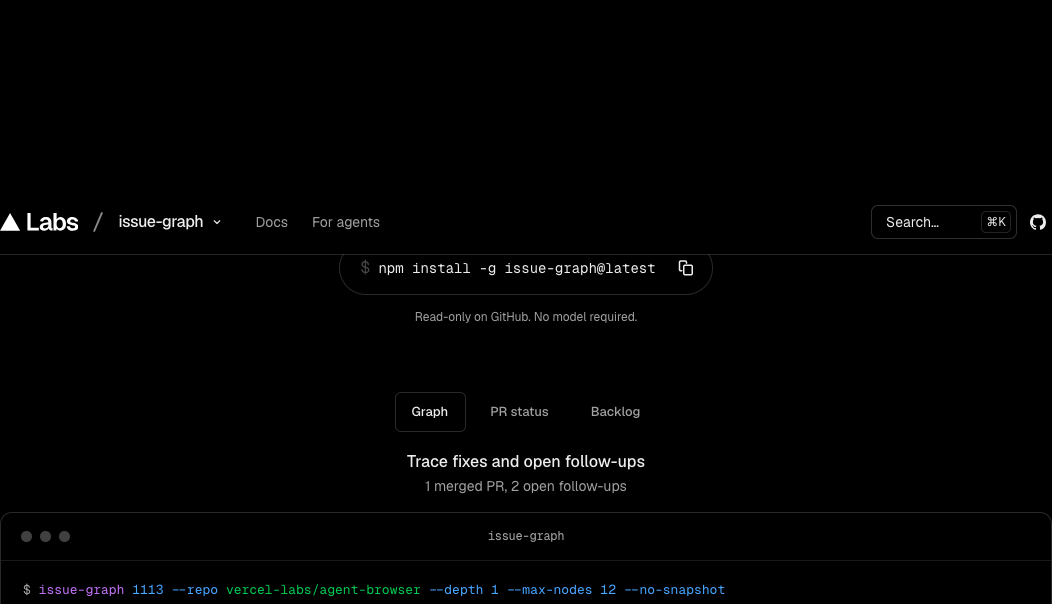
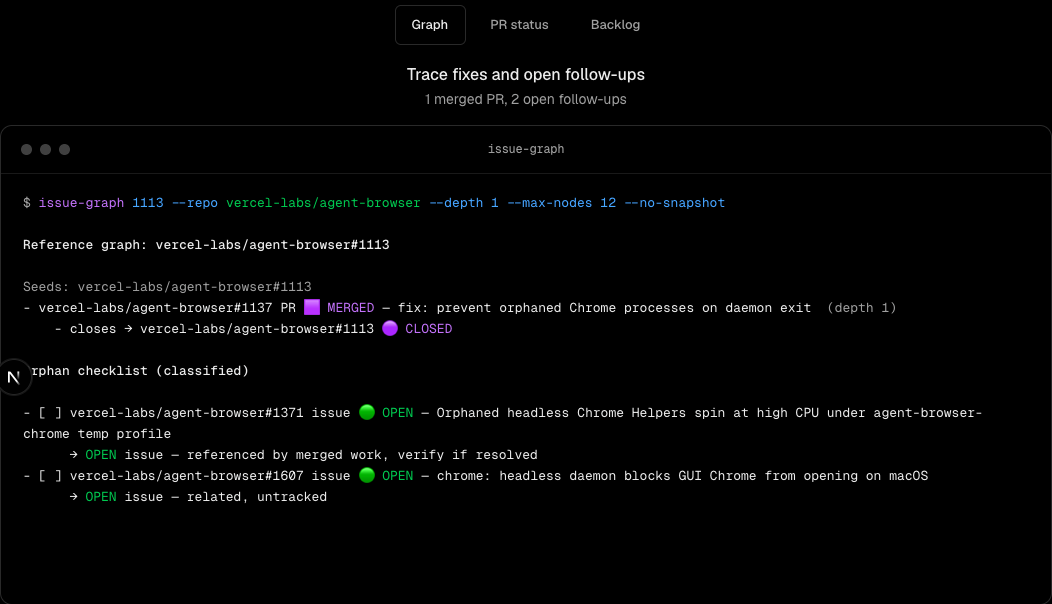
docs: fix demo capture and simplify skill description

diff --git a/apps/docs/public/.well-known/skills/issue-graph/SKILL.md b/apps/docs/public/.well-known/skills/issue-graph/SKILL.md
@@ -1,6 +1,6 @@
 ---
 name: issue-graph
-description: Read-only GitHub PR status and reference graphs for maintainers and agents. Use whenever the user asks for PR counts or status by author, project, repository, or review state; approved, changes-requested, conflicting, draft, ready-for-review, or unassigned PRs; a compact portfolio table; or counts for named contributors, even without naming issue-graph. Spanish triggers include cuantas PRs, conteo por autor, tabla por proyecto, pendientes de revision, conflictos, and sin asignar. Also use before working an issue or PR, tracing references, finding duplicate or superseded work, reconciling an unlabeled backlog, prioritizing issues, and checking changes since a snapshot. Route counts to issue-graph status, references to graph, and backlog actions to reconcile or plan. Never infer code correctness or merge readiness from counts.
+description: Read-only context for issues, pull requests, and backlogs. Use to trace related work, check review queues and PR counts, prioritize follow-ups, or compare snapshots.
 ---
 
 # issue-graph

diff --git a/skills/issue-graph/SKILL.md b/skills/issue-graph/SKILL.md
@@ -1,6 +1,6 @@
 ---
 name: issue-graph
-description: Read-only GitHub PR status and reference graphs for maintainers and agents. Use whenever the user asks for PR counts or status by author, project, repository, or review state; approved, changes-requested, conflicting, draft, ready-for-review, or unassigned PRs; a compact portfolio table; or counts for named contributors, even without naming issue-graph. Spanish triggers include cuantas PRs, conteo por autor, tabla por proyecto, pendientes de revision, conflictos, and sin asignar. Also use before working an issue or PR, tracing references, finding duplicate or superseded work, reconciling an unlabeled backlog, prioritizing issues, and checking changes since a snapshot. Route counts to issue-graph status, references to graph, and backlog actions to reconcile or plan. Never infer code correctness or merge readiness from counts.
+description: Read-only context for issues, pull requests, and backlogs. Use to trace related work, check review queues and PR counts, prioritize follow-ups, or compare snapshots.
 ---
 
 # issue-graph
